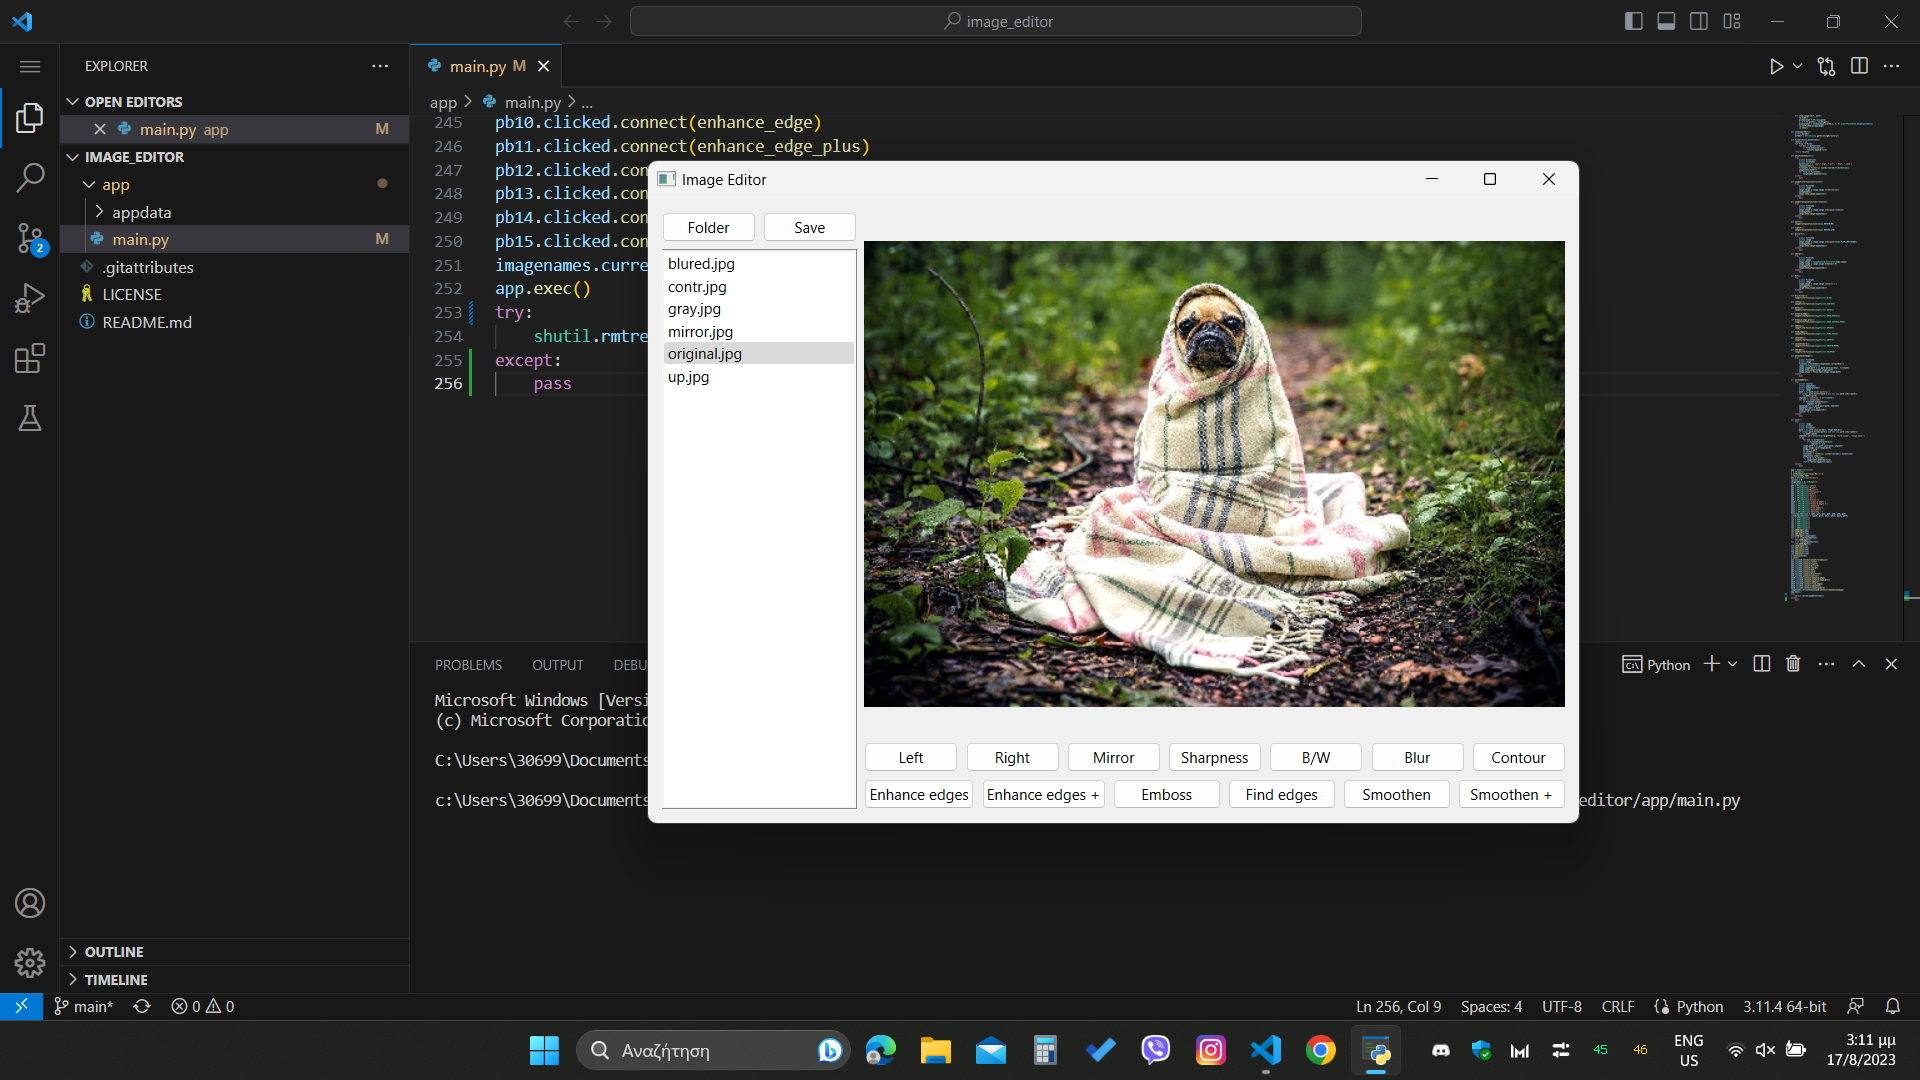
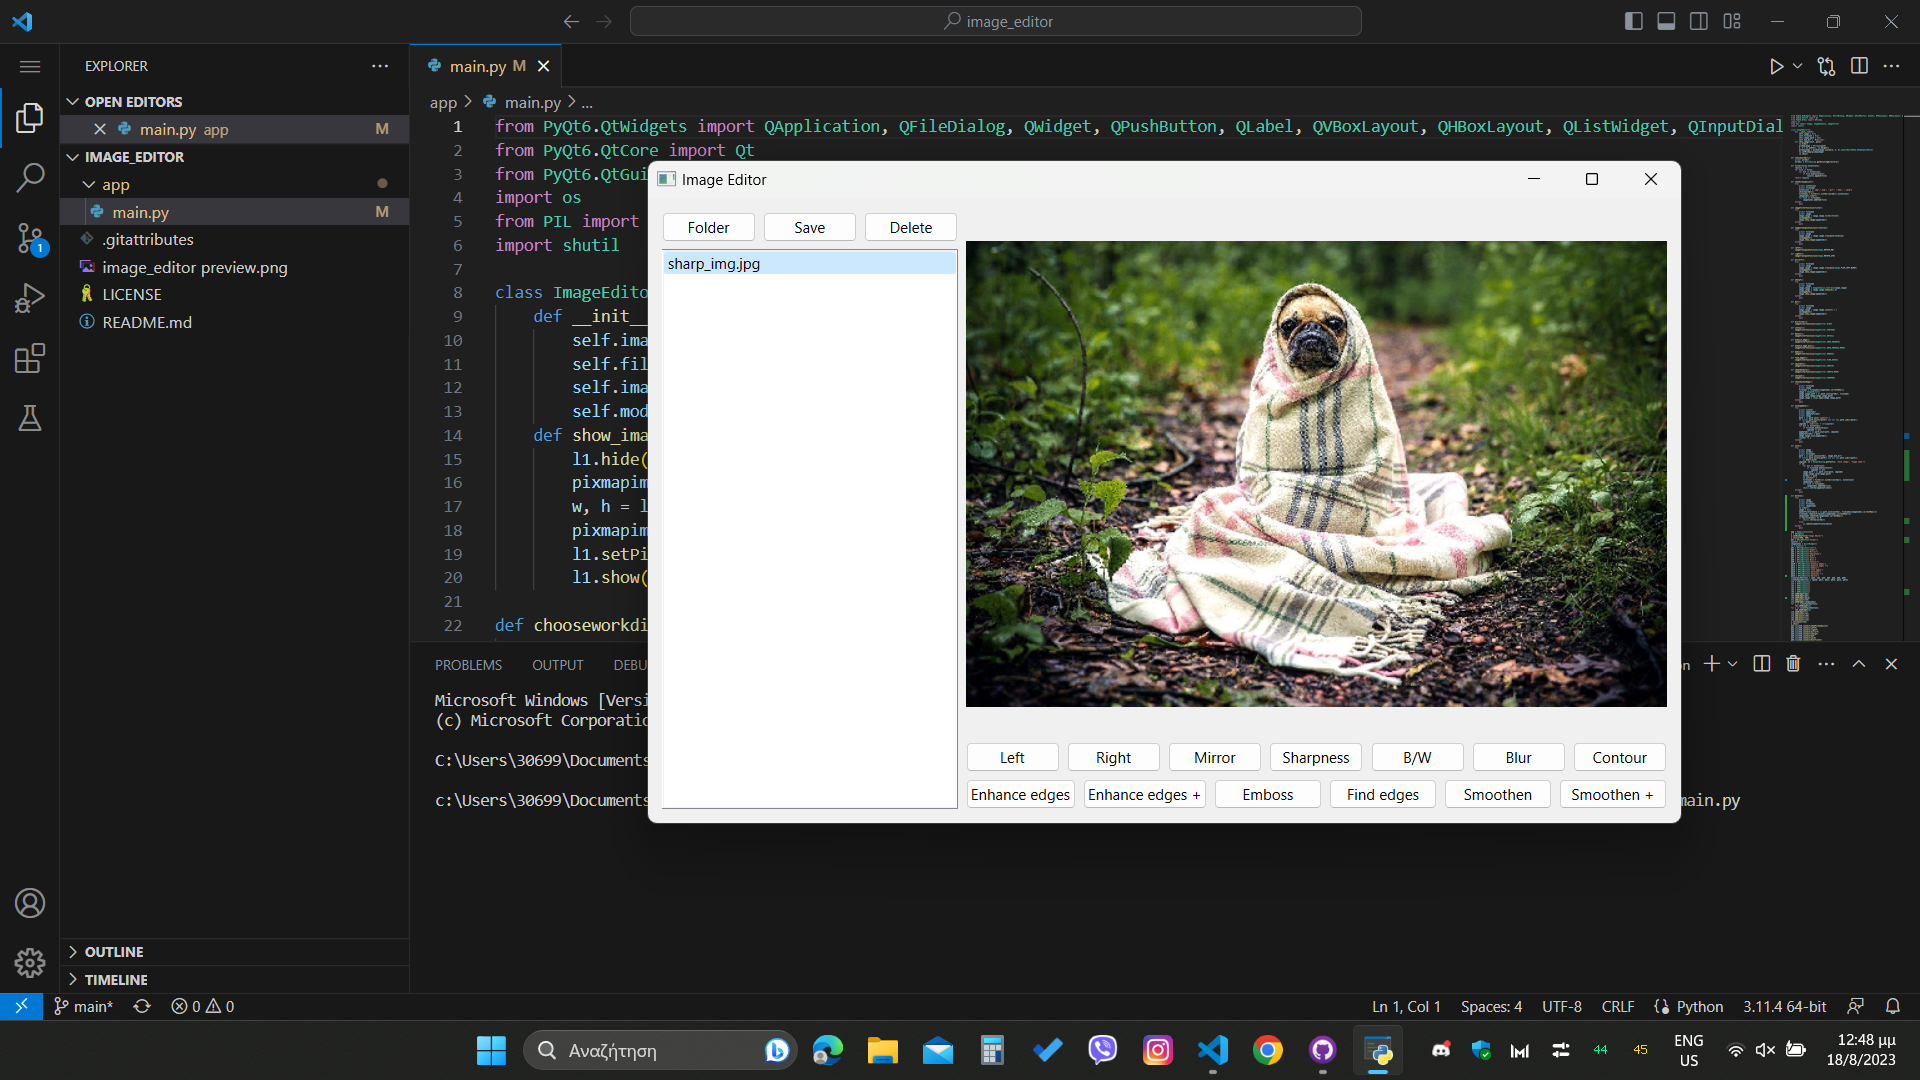
added delete button

diff --git a/app/main.py b/app/main.py
@@ -180,11 +180,29 @@ def save():
             image.image.save(image_path)
             workdir = path
             l1.setText('')
-            filenames = filter(os.listdir(workdir),extentions)
+            filenames = filter(os.listdir(workdir), extentions)
             imagenames.clear()
             for file in filenames:
                 imagenames.addItem(file)
             shutil.rmtree(appdatafiledir)
+    except:
+        pass
+
+def delete():
+    try:
+        global image
+        global workdir
+        global filenames
+        global imagenames
+        l1.clear()
+        image = None
+        nameoffiletoremove = os.path.join(workdir, filenames[imagenames.currentRow()])
+        filenames.remove(filenames[imagenames.currentRow()])
+        imagenames.takeItem(imagenames.currentRow())
+        if len(filenames) == 0:
+            shutil.rmtree(workdir)
+        else:
+            os.remove(nameoffiletoremove)
     except:
         pass
 
@@ -210,6 +228,7 @@ pb12 = QPushButton('Emboss')
 pb13 = QPushButton('Find edges')
 pb14 = QPushButton('Smoothen')
 pb15 = QPushButton('Smoothen +')
+pb16 = QPushButton('Delete')
 lineofpushbuttons = [pb2, pb3, pb4, pb5, pb6, pb8, pb9]
 line2ofpushbuttons = [pb10, pb11, pb12, pb13, pb14, pb15]
 lv1 = QVBoxLayout()
@@ -220,6 +239,7 @@ lh3 = QHBoxLayout()
 lh4 = QHBoxLayout()
 lh3.addWidget(pb1)
 lh3.addWidget(pb7)
+lh3.addWidget(pb16)
 lv1.addLayout(lh3)
 lv1.addWidget(imagenames)
 for i in lineofpushbuttons:
@@ -248,6 +268,7 @@ pb12.clicked.connect(emboss)
 pb13.clicked.connect(find_edges)
 pb14.clicked.connect(smoothen)
 pb15.clicked.connect(smoothenmore)
+pb16.clicked.connect(delete)
 imagenames.currentRowChanged.connect(showChosenImage)
 app.exec()
 try:
